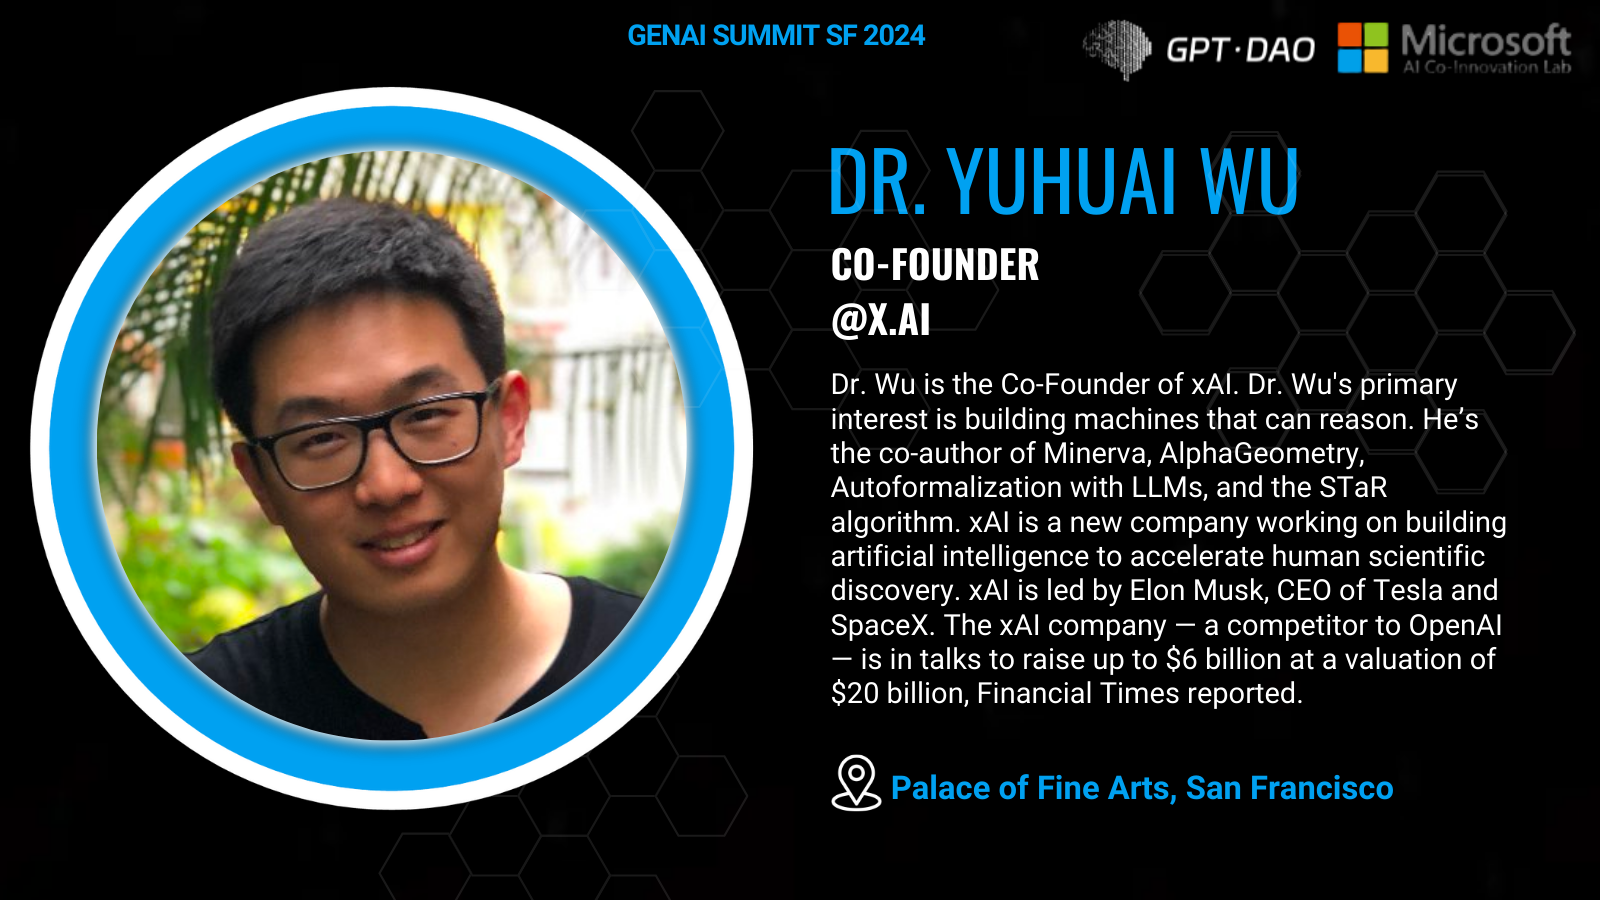
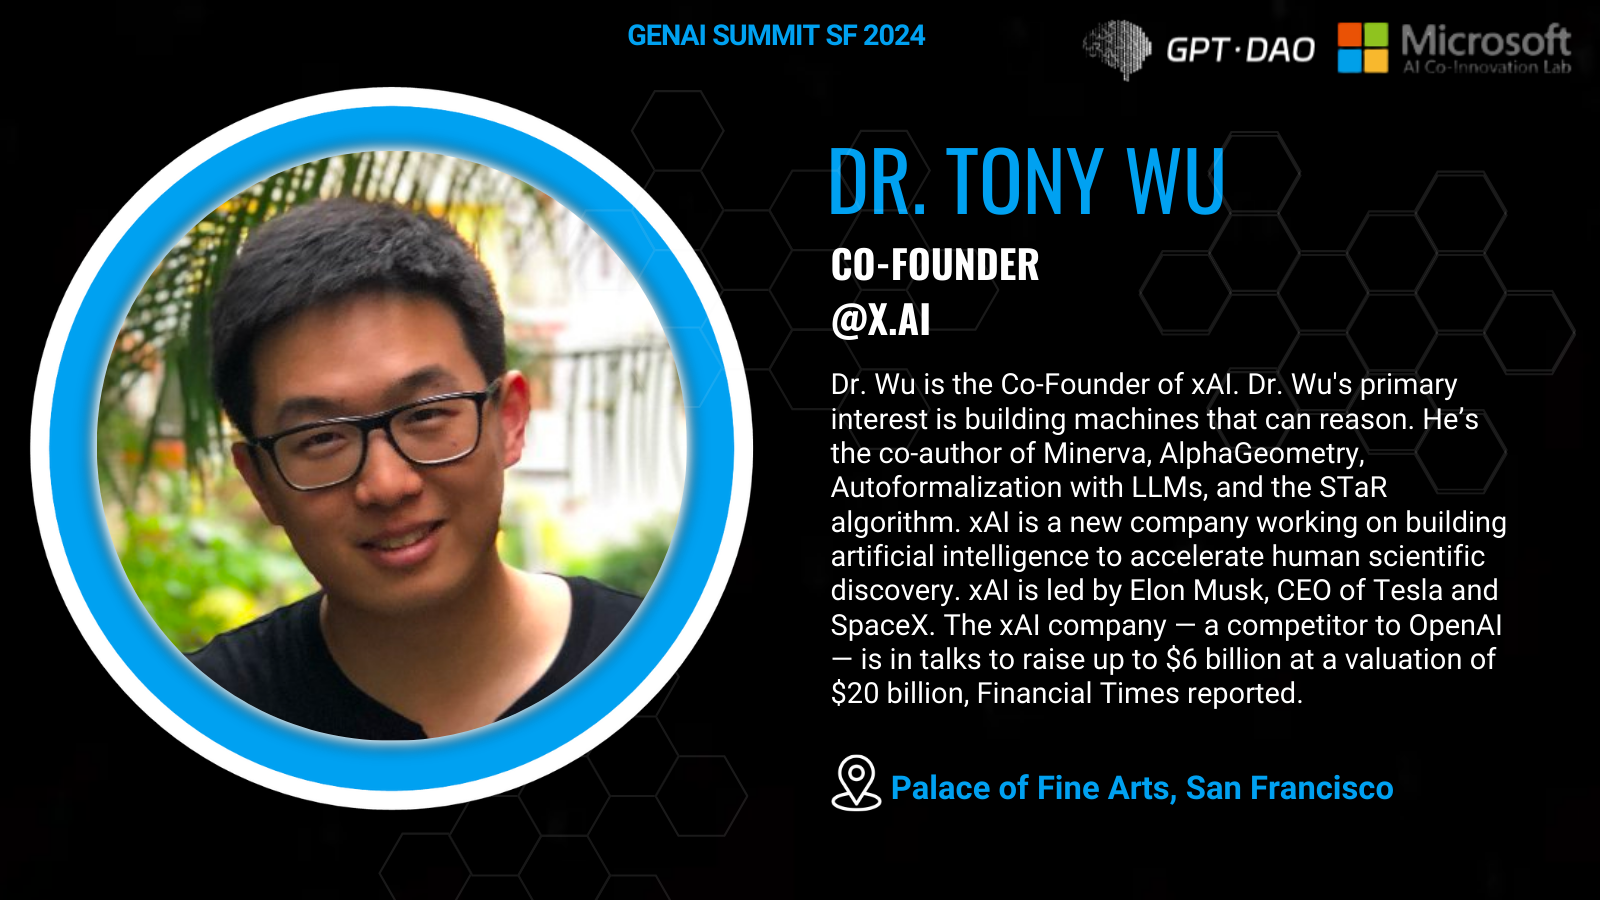
sf89
嘉宾顺序，内容调整

Changed region(s): [[0.5938, 0.1556, 0.8125, 0.2489]]

diff --git a/summit/src/utils/speaker.js b/summit/src/utils/speaker.js
@@ -149,8 +149,8 @@ const speaker = [
     detail: microsoft,
   },
   {
-    name: 'Dr. Yuhuai Wu',
-    job: 'Co-founder',
+    name: 'Dr. Tony Wu',
+    job: 'Co-Founder',
     tip: 'xAI',
     image: dr_yuhuai_wu,
     website: 'https://yuhuaiwu.github.io/',
@@ -173,9 +173,8 @@ const speaker = [
   },
   {
     name: 'Dr. Jim Fan',
-    job: ' Senior Research Scientist',
-    tip: 'NVIDIA AI',
-
+    job: 'Research Manager & Lead of Embodied AI',
+    tip: 'NVIDIA',
     website: 'https://jimfan.me/',
     twitter: 'https://twitter.com/DrJimFan',
     link: 'https://www.linkedin.com/in/drjimfan/',
@@ -193,9 +192,42 @@ const speaker = [
     detail: arvind2,
     image: arvind,
   },
+
+
+
+  {
+    name: 'Prof. Raluca Popa',
+    job: 'Professor',
+    tip: 'UC Berkeley CS Dept.',
+    image: popa,
+    website: 'https://people.eecs.berkeley.edu/~raluca/',
+    twitter: 'https://twitter.com/ralucaadapopa',
+    linkedin: 'https://www.linkedin.com/in/ralucaadapopa/',
+    detail: popa2,
+  },
+  {
+    name: 'Deon Nicholas',
+    job: 'Co-Founder & CEO',
+    tip: 'Forethought',
+    image: deon,
+    twitter: 'https://twitter.com/dojideon?lang=en',
+    linkedin: 'https://www.linkedin.com/in/deon-nicholas/',
+    website: '',
+    detail: deon2,
+  },
+  {
+    name: 'Karina Nguyen',
+    job: 'AI Researcher',
+    tip: 'Anthropic',
+    image: karina,
+    linkedin: '',
+    twitter: 'https://twitter.com/karinanguyen_',
+    website: 'https://karinanguyen.com/',
+    detail: karina2,
+  },
   {
     name: 'Dr. Denis Yarats',
-    job: 'CTO & Co-founder',
+    job: 'CTO & Co-Founder',
     tip: 'Perplexity',
     image: dr_denis_yarats,
     website: 'https://cs.nyu.edu/~dy1042/',
@@ -213,16 +245,6 @@ const speaker = [
     twitter: 'https://twitter.com/_jasonwei',
     linkedin: 'https://www.linkedin.com/in/jason-wei-5a7323b0/',
     detail: jasonwei2,
-  },
-  {
-    name: 'Prof. Raluca Popa',
-    job: 'Professor',
-    tip: 'UC Berkeley CS Dept.',
-    image: popa,
-    website: 'https://people.eecs.berkeley.edu/~raluca/',
-    twitter: 'https://twitter.com/ralucaadapopa',
-    linkedin: 'https://www.linkedin.com/in/ralucaadapopa/',
-    detail: popa2,
   },
   {
     name: 'Bob van Luijt',
@@ -244,16 +266,7 @@ const speaker = [
     twitter: '',
     detail: clarence2,
   },
-  {
-    name: 'Deon Nicholas',
-    job: 'Co-Founder & CEO',
-    tip: 'Forethought',
-    image: deon,
-    twitter: 'https://twitter.com/dojideon?lang=en',
-    linkedin: 'https://www.linkedin.com/in/deon-nicholas/',
-    website: '',
-    detail: deon2,
-  },
+
   {
     name: 'Dr. Devendra Chaplot',
     job: 'AI Research Scientist',
@@ -265,16 +278,6 @@ const speaker = [
     detail: devendra2,
   },
 
-  {
-    name: 'Karina Nguyen',
-    job: 'AI Researcher',
-    tip: 'Anthropic',
-    image: karina,
-    linkedin: '',
-    twitter: 'https://twitter.com/karinanguyen_',
-    website: 'https://karinanguyen.com/',
-    detail: karina2,
-  },
 
   {
     name: 'Dr. Alexander Ratner',
@@ -436,7 +439,7 @@ const speaker = [
   },
   {
     name: 'Tim Shi',
-    job: 'Co-founder & CTO',
+    job: 'Co-Founder & CTO',
     tip: 'Cresta',
     image: timshi,
     website: 'https://theorg.com/org/cresta/org-chart/tim-shi',
@@ -717,7 +720,7 @@ const speaker = [
   },
   {
     name: 'Rajat Suri',
-    job: 'Co-founder @Lima/@Lyft ',
+    job: 'Co-Founder @Lima/@Lyft ',
     tip: 'Founder @Presto ',
     image: rajat,
     website: '',

diff --git a/summit/src/utils/speakerNewly.js b/summit/src/utils/speakerNewly.js
@@ -358,7 +358,7 @@ const speakerNewly = [
 
   {
     name: 'Tim Shi',
-    job: 'Co-founder & CTO',
+    job: 'Co-Founder & CTO',
     tip: 'Cresta',
     image: timshi,
     website: 'https://theorg.com/org/cresta/org-chart/tim-shi',
@@ -416,8 +416,8 @@ const speakerNewly = [
   },
 
   {
-    name: 'Dr. Yuhuai Wu',
-    job: 'Co-founder',
+    name: 'Dr. Tony Wu',
+    job: 'Co-Founder',
     tip: 'xAI',
     image: dr_yuhuai_wu,
     website: 'https://yuhuaiwu.github.io/',
@@ -428,7 +428,7 @@ const speakerNewly = [
 
   {
     name: 'Dr. Denis Yarats',
-    job: 'CTO & Co-founder',
+    job: 'CTO & Co-Founder',
     tip: 'Perplexity',
     image: dr_denis_yarats,
     website: 'https://cs.nyu.edu/~dy1042/',
